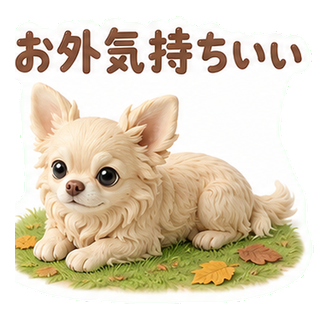
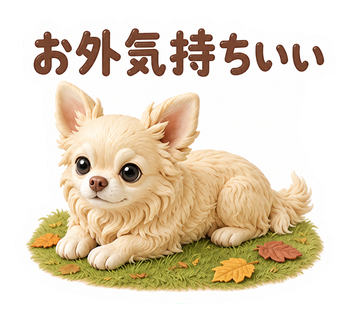
fix: ビビちゃん秋スタンプ16/25の切れ修正、32を食欲の秋テーマに変更、02-05を新規4種に差し替え

diff --git a/articles/line-stickers-bibi-autumn.html b/articles/line-stickers-bibi-autumn.html
@@ -65,10 +65,10 @@
 </div>
 <div class="grid">
   <div class="card"><img src="line-stickers-bibi-autumn/01_涼しくなった.png" alt="涼しくなった"><div class="num">01</div><div class="label">涼しくなった</div></div>
-  <div class="card"><img src="line-stickers-bibi-autumn/02_おはよう.png" alt="おはよう"><div class="num">02</div><div class="label">おはよう</div></div>
-  <div class="card"><img src="line-stickers-bibi-autumn/03_おやすみ.png" alt="おやすみ"><div class="num">03</div><div class="label">おやすみ</div></div>
-  <div class="card"><img src="line-stickers-bibi-autumn/04_ただいま.png" alt="ただいま"><div class="num">04</div><div class="label">ただいま</div></div>
-  <div class="card"><img src="line-stickers-bibi-autumn/05_いってきます.png" alt="いってきます"><div class="num">05</div><div class="label">いってきます</div></div>
+  <div class="card"><img src="line-stickers-bibi-autumn/02_はーい.png" alt="はーい"><div class="num">02</div><div class="label">はーい</div></div>
+  <div class="card"><img src="line-stickers-bibi-autumn/03_ハロウィン仮装.png" alt="ハロウィン仮装"><div class="num">03</div><div class="label">ハロウィン仮装</div></div>
+  <div class="card"><img src="line-stickers-bibi-autumn/04_ハロウィン仮装.png" alt="ハロウィン仮装"><div class="num">04</div><div class="label">ハロウィン仮装</div></div>
+  <div class="card"><img src="line-stickers-bibi-autumn/05_ハロウィン仮装.png" alt="ハロウィン仮装"><div class="num">05</div><div class="label">ハロウィン仮装</div></div>
   <div class="card"><img src="line-stickers-bibi-autumn/06_お散歩行こう.png" alt="お散歩行こう"><div class="num">06</div><div class="label">お散歩行こう</div></div>
   <div class="card"><img src="line-stickers-bibi-autumn/07_ごはんまだ？.png" alt="ごはんまだ？"><div class="num">07</div><div class="label">ごはんまだ？</div></div>
   <div class="card"><img src="line-stickers-bibi-autumn/08_お疲れ.png" alt="お疲れ"><div class="num">08</div><div class="label">お疲れ</div></div>
